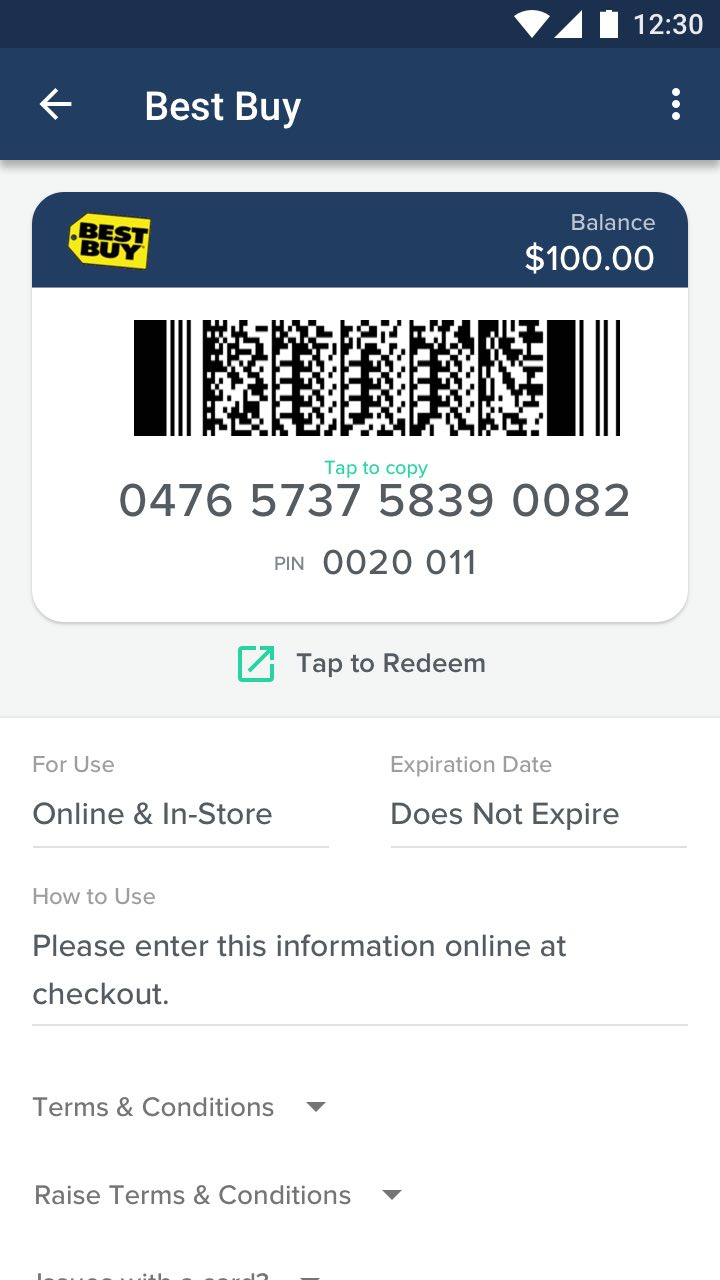
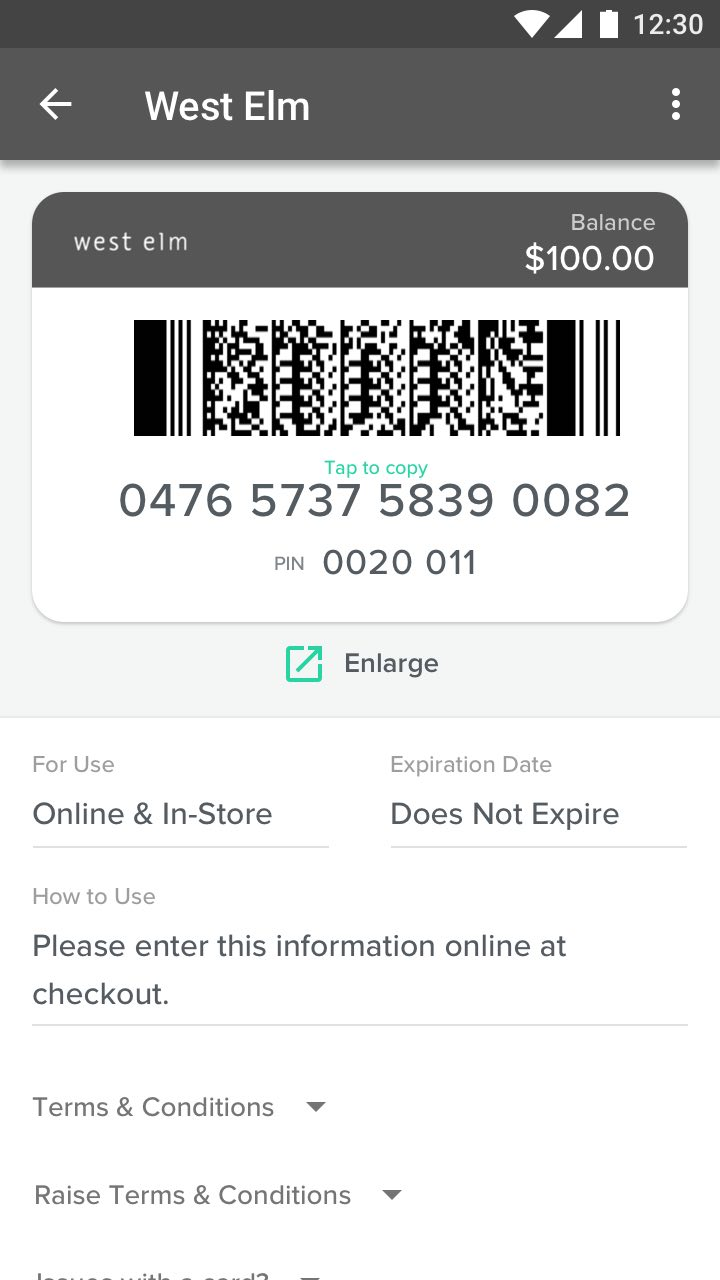
updates images for wallet and readds filters

Changed region(s): [[0.0, 0.0, 1.0, 0.25], [0.3056, 0.5, 0.6722, 0.5312]]

diff --git a/index.html b/index.html
@@ -108,8 +108,9 @@
               <div class="one-third column">
                 <h5>Mobile Wallet for iOS and Android</h5>
                 <h6>Product, Design, Prototyping</h6>
-                <p>One of the bigger projects at Raise was updating the design for the wallet redemption screens in both the iOS and Android apps. Serving as the way for customers to use their gift cards in-store, the screen is unique in that is serves two types of customers, Raise users and the cashiers that are redeeming gift cards.</p> 
-                <p>Working with the UX team to get user feedback and testing, I used the feedback from customers and cashiers to create a simpler, easier to read, and better branded wallet redemption screen. I went multiple iterations on designs and prototypes to arrive at the current design.</p>
+                <p>The goal of this project was to create a wallet redemption design that allowed Raise customers to better understand and manage their gift cards, while also creating an improved experience for cashiers redeeming gift cards bought from Raise.</p> 
+                <p>I led the design for the new wallet redemption and worked with the UX team to get real feedback to drive the design process.</p>
+                <p>The wallet redemption design featured better branding for each individual brand, easier to read card information, a new way to isolate the most important card information when checking out.</p>
               </div>
               <div class="one-third column">
                 <img class="u-full-width" src="assets/ios_wallet.jpg">
@@ -120,18 +121,30 @@
             </div>
             <div class="row details">
               <div class="one-third column">
+                <p></p>
+              </div>
+              <div class="one-third column">
+                <img class="u-full-width" src="assets/ios_wallet_manage.jpg">
+              </div>
+              <div class="one-third column">
+                <img class="u-full-width" src="assets/android_wallet_manage.jpg">
+              </div>
+            </div>
+          </div>
+          <div class="project">  
+            <div class="row details">
+              <div class="one-third column">
                 <h5>Tab Navigation for iOS</h5>
                 <h6>Product, Design, Prototyping</h6>
-                <p>I led the effort to switch the iOS app from a hamburger side menu to a tab navigation. </p>
-
+                <p>I led the design efforts to move the Raise iOS app from a hamburger menu to a tabbed navigation. I worked with the engineers and mobile PM to determine the focus of app and which features needed to be placed within the tab navigation.</p>
+                <p>I was responsible for designing the new More section and updating any previous interactions within the app that conflicted with the new tab navigation. I also created a prototype of the new app for user testing.</p>
               </div>
               <div class="one-third column">
                 <img class="u-full-width" src="assets/ios_tab_home.jpg">
               </div>
               <div class="one-third column">
                 <img class="u-full-width" src="assets/ios_tab_more.jpg">
-              </div>
-              
+              </div> 
             </div>
             <div class="row details">
               <div class="one-third column">
@@ -162,14 +175,40 @@
           <div class="project">
             <div class="row details">
               <div class="one-third column">
-                <h5>My Receipts for Android</h5>
-                <h6>Product, Design</h6>
-                <p>I worked with the mobile team to create a filter mechanism for the Raise mobile apps that allowed customers to sort gift cards by the highest percentage of savings and to filter to only electronic (+ mobile-ready) gift cards.</p>
+                <h5>Receipts for Android</h5>
+                <h6>Design</h6>
+                <p>The goal is this project was to add the ability for Raise users to view receipts for their purchased gift cards in the Android app.</p>
               </div>
               <div class="one-third column">
                 <img class="u-full-width" src="assets/android_receipts.jpg">
               </div>         
             </div>             
+          </div>
+          <div class="project">
+            <div class="row details">
+              <div class="one-third column">
+                <h5>Filter for iOS and Android</h5>
+                <h6>Product, Design, Prototyping, Research</h6>
+                <p>I worked with the mobile team to create a filter mechanism for the Raise mobile apps that allowed customers to sort gift cards by the highest percentage of savings and to filter to only electronic (+ mobile-ready) gift cards.</p>
+              </div>
+              <div class="one-third column">
+                <img class="u-full-width" src="assets/raise_ios_filter.jpg">
+              </div>
+              <div class="one-third column">
+                <img class="u-full-width" src="assets/raise_ios_filterup.jpg">
+              </div>            
+            </div> 
+            <div class="row details">
+              <div class="one-third column">
+                <p></p>
+              </div>
+              <div class="one-third column">
+                <img class="u-full-width" src="assets/raise_android_filter.jpg">
+              </div>
+              <div class="one-third column">
+                <img class="u-full-width" src="assets/raise_android_filterup.jpg">
+              </div>
+            </div>
           </div>
           <div class="project">
             <div class="row details">
@@ -277,7 +316,7 @@
           <div class="row header">
             <div class="one-third column">
               <h4 class="project-title">Did France Win?</h4>
-              <h6>February 2016</h6>
+              <h6>2016</h6>
               <a class="app-store" href="https://itunes.apple.com/us/app/did-france-win/id1080921112?mt=8" target="_blank"><img alt="Download on the App Store" width="135" height="40" src="assets/Download_on_the_App_Store_Badge_US-UK_135x40.svg"></a>
               <p>As a dual French and American citizen, and someone whose identity is firmly split between the two countries, my support for the French national football has never wavered. I always want to know the latest score, but never want to have to fumble around in a larger sports app to find the simple score I need. The result: the Did France Win? app.</p>
               <p>I used the project as starting point to teach myself Swift. While I’m familiar with Xcode and have made design tweaks in code and Interface Builder in the past, I never truly built my own app from scratch until now.</p>
@@ -293,7 +332,7 @@
           <div class="row header">
             <div class="one-third column">
               <h4 class="project-title">A Spot in the City</h4>
-              <h6>February 2016</h6>
+              <h6>2016</h6>
               <p>A Spot in the City is a collection of city guides to New York City, London, and Chicago that I’ve been putting together for last couple years. I needed a central place to link to the guides and created a website to do just that.</p>
               <a class="button button-primary" href="http://aspotinthecity.com/">Visit the site</a>
             </div>
@@ -304,7 +343,7 @@
           <div class="row header">
             <div class="one-third column">
               <h4 class="project-title">Beagle News</h4>
-              <h6>October 2015</h6>
+              <h6>2015</h6>
               <p>A continually updating website with photos of beagles <span class="emoji">🐶</span>.</p>
               <a class="button button-primary" href="http://beagle.news/">Show me beagles</a>
             </div>
